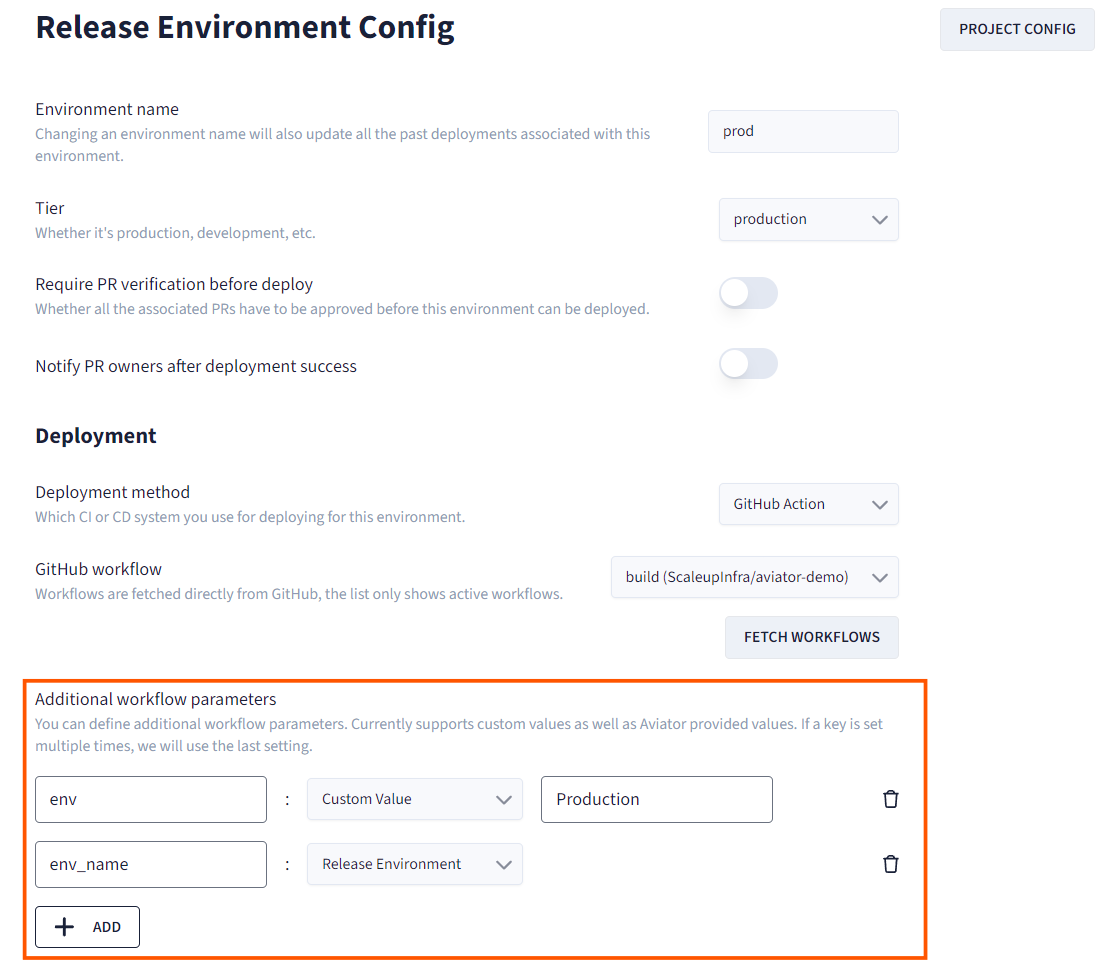
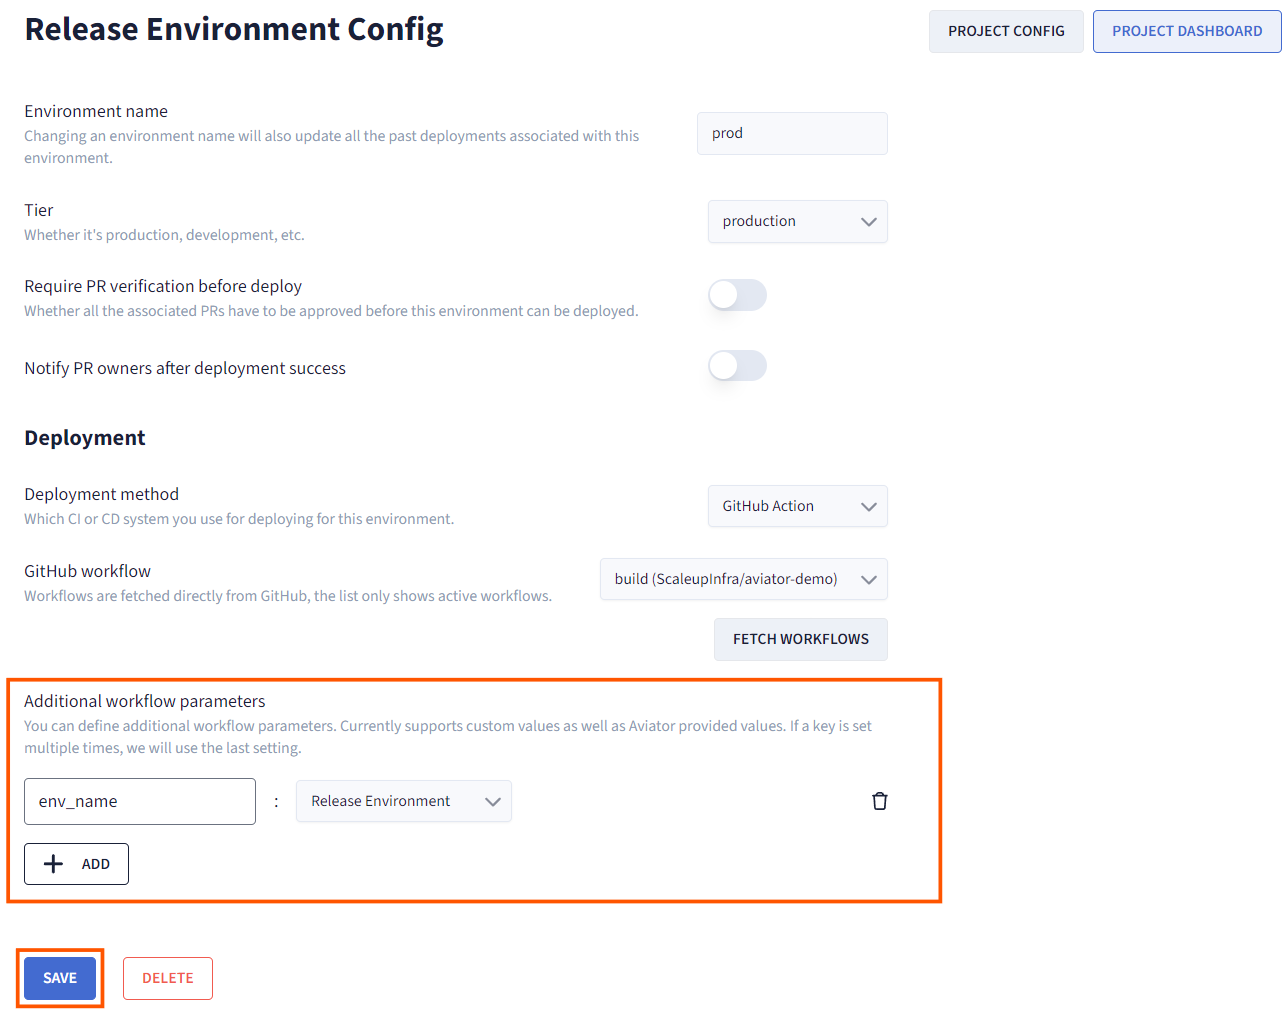
custom-workflow-parameters env fixes

diff --git a/releases-beta/how-to-guides/create-custom-workflow-parameters.md b/releases-beta/how-to-guides/create-custom-workflow-parameters.md
@@ -2,7 +2,7 @@
 
 Custom workflow parameters allow you to define and manage key-value pairs that can be accessed during your software build and deployment process. This ensures that your release pipeline can use specific configurations for different environments, such as staging, production, or custom setups.
 
-## Generate Workflow Parameters in Your Project or Environment Config
+## Setting Workflow Parameters for Your Build Workflow
 
 1. Go to the Project Config in your Aviator release project.
 2. In the build section, fetch and select your workflow.
@@ -12,9 +12,17 @@ Custom workflow parameters allow you to define and manage key-value pairs that c
    - **Key**: This should be a unique identifier for the variable (e.g., user).
    - **Value**: This is the specific configuration or secret (e.g., Aviator).
 5. After adding all necessary variables, click Save to store the configurations.
-![](../../.gitbook/assets/release-custom-env.png)
-6. If you'd like to create custom workflow parameters for a specific environment, navigate to the Environment Config for that environment. In the "Additional workflow parameters" section, add the parameters in the same way as described above.
+![](../../.gitbook/assets/release-build-env.png)
+
+## Setting Workflow Parameters for Your Deploy Workflow
+
+1. Navigate to the **Environment Config** for the environment where you'd like to apply custom workflow parameters (e.g., staging or production).
+   - **Note:** If you haven't created any environment yet, go to your **Project Config** and click on **"Add Environment"** to create one.
+2. In the **"Additional workflow parameters"** section, click the **"ADD"** button to define the key and value for this environment.
+3. Save the changes to apply the parameters specific to that environment.
+
 ![](../../.gitbook/assets/release-env-config.png)
+
 
 ## Add the Custom Workflow Parameters to your Pipeline
 
@@ -33,10 +41,6 @@ on:
         description: "Commit hash"
         required: false
         type: string
-      env:
-        description: "Environment tier"
-        required: false
-        type: string
       env_name:
         description: "Environment name"
         required: false
@@ -53,11 +57,10 @@ jobs:
           echo "Inputs:"
           echo "user=${{ inputs.user }}"
           echo "commit_hash=${{ inputs.commit_hash }}"
-          echo "env=${{ inputs.env }}"
           echo "env_name=${{ inputs.env_name }}"
 ```
 4. On the release dashboard, cut a release to trigger the workflow.
-![](../../.gitbook/assets/release-cut-custom-env.png.png)
+![](../../.gitbook/assets/release-cut-dashboard.png)
 5. Verify the logs of the triggered pipeline to get the value of the custom workflow parameters in the workflow.
 ![](../../.gitbook/assets/release-workflow-logs.png)
 
